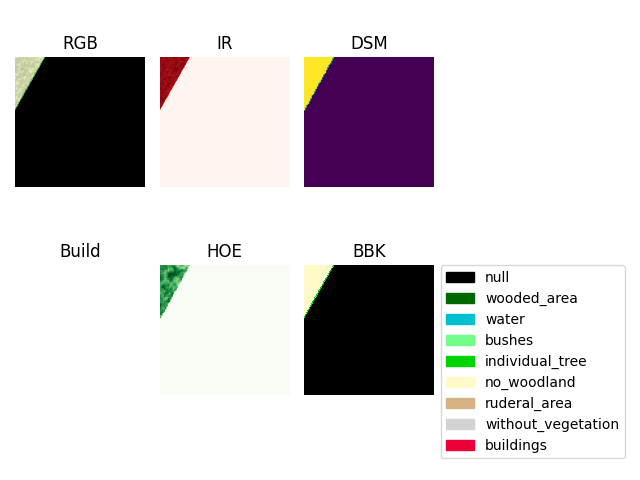
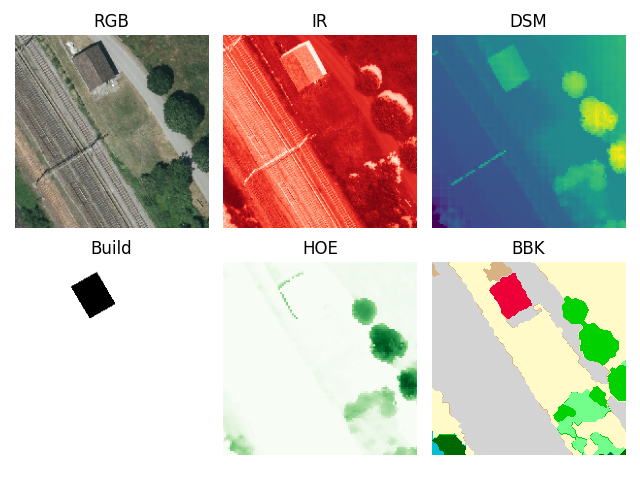
example_data

diff --git a/example_data.py b/example_data.py
@@ -6,7 +6,7 @@ import matplotlib.colors as colors
 import matplotlib.patches as mpatches
 import numpy as np
 
-bbkd = BBKDataset(zone = ("genf",),split="test", augment=False)
+bbkd = BBKDataset(zone = ("alles",),split="all", augment=False)
 print(len(bbkd))
 dl = DataLoader(bbkd, batch_size=16, shuffle=False)
 
@@ -20,6 +20,7 @@ num = 1
 # hex : '#000000', '#006800','#00c0d2', '#73fe8c', '#00d200', '#fffac7', '#d7b384', '#d4d3d4', '#ed0038'
 bbk_cmap = colors.ListedColormap(['#000000', '#006800','#00c0d2', '#73fe8c', '#00d200', '#fffac7', '#d7b384', '#d4d3d4', '#ed0038'])
 bbk_scale = [0,1,2,3,4,5,6,7,8,9]
+bbk_scale = [-0.5,0.5,1.5,2.5,3.5,4.5,5.5,6.5,7.5,8.5]
 labels = ["null","wooded_area", "water", "bushes", "individual_tree", "no_woodland", "ruderal_area", "without_vegetation", "buildings"]
 hex_colors = ['#000000', '#006800','#00c0d2', '#73fe8c', '#00d200', '#fffac7', '#d7b384', '#d4d3d4', '#ed0038']
 
@@ -28,60 +29,124 @@ patches = [ mpatches.Patch(color=hex_colors[i], label=labels[i]) for i in range(
 # put those patched as legend-handles into the legend
 #plt.legend(handles=patches, bbox_to_anchor=(1.05, 1), loc=2, borderaxespad=0. )
 
+plt.figure()
+#plt.legend(handles=patches, bbox_to_anchor=(1.05, 1), loc=2, borderaxespad=0. )
+plt.legend(handles=patches, loc='center', ncol = 1, markerscale=2, fontsize='xx-large')
+#fig.legend(handles=patches, loc=4, borderaxespad=0.)
+plt.axis('off')
+#plt.title('BBK legend')
+plt.savefig(f'example_data/bbk_legend.png')
+
+# counter = 0
+# for i in dl:
+# 	counter += 1
+# 	document = i[0][num]
+# 	rgbidsm = document[:5,:,:]*bbkd.std_vals_tiles+bbkd.mean_vals_tiles
+# 	rgb = rgbidsm[:3,:,:].div(torch.max(rgbidsm[:3,:,:])).permute(1,2,0).numpy()
+# 	#rgb = rgbidsm[:3,:,:].permute(1,2,0).numpy()
+# 	# ir = rgbidsm[3,:,:].div(torch.max(rgbidsm[3,:,:])).numpy()
+# 	ir = rgbidsm[3,:,:].numpy()
+# 	# dsm = rgbidsm[4,:,:].div(torch.max(rgbidsm[4,:,:])).numpy()
+# 	dsm = rgbidsm[4,:,:].numpy()
+# 	build = document[5,:,:].numpy()
+# 	hoe = document[6,:,:]*bbkd.std_vals_vegetation+bbkd.mean_vals_vegetation
+# 	# hoe = hoe.div(torch.max(hoe)).numpy()
+# 	hoe = hoe.numpy()
+# 	bbk = i[1][num].argmax(dim=0).numpy()
+
+# 	# print(np.shape(rgb))
+# 	# print(np.shape(ir))
+# 	# print(np.shape(dsm))
+# 	# print(np.shape(build))
+# 	# print(np.shape(hoe))
+# 	# print(np.shape(bbk))
+
+# 	fig = plt.figure()
+# 	plt.subplot(231)
+# 	plt.imshow(rgb)
+# 	# plt.imshow(bbk, cmap=bbk_cmap, norm=colors.BoundaryNorm(bbk_scale, len(bbk_scale)-1), alpha=0.4)
+# 	plt.axis('off')
+# 	plt.title('RGB')
+# 	plt.subplot(232)
+# 	plt.imshow(ir, cmap='Reds', norm=colors.Normalize())
+# 	plt.axis('off')
+# 	plt.title('IR')
+# 	plt.subplot(233)
+# 	plt.imshow(dsm, norm=colors.Normalize())
+# 	plt.axis('off')
+# 	plt.title('DSM')
+# 	plt.subplot(234)
+# 	plt.imshow(build, cmap='Greys')
+# 	plt.axis('off')
+# 	plt.title('Build')
+# 	plt.subplot(235)
+# 	plt.imshow(hoe, cmap='Greens', norm=colors.Normalize())
+# 	plt.axis('off')
+# 	plt.title('HOE')
+# 	plt.subplot(236)
+# 	plt.imshow(bbk, cmap=bbk_cmap, norm=colors.BoundaryNorm(bbk_scale, len(bbk_scale)-1))
+# 	plt.axis('off')
+# 	plt.title('BBK')
+# 	plt.tight_layout()
+# 	plt.savefig(f'example_data/example_data{counter}.png')
 
 counter = 0
 for i in dl:
-	counter += 1
-	document = i[0][num]
-	rgbidsm = document[:5,:,:]*bbkd.std_vals_tiles+bbkd.mean_vals_tiles
-	rgb = rgbidsm[:3,:,:].div(torch.max(rgbidsm[:3,:,:])).permute(1,2,0).numpy()
-	#rgb = rgbidsm[:3,:,:].permute(1,2,0).numpy()
-	# ir = rgbidsm[3,:,:].div(torch.max(rgbidsm[3,:,:])).numpy()
-	ir = rgbidsm[3,:,:].numpy()
-	# dsm = rgbidsm[4,:,:].div(torch.max(rgbidsm[4,:,:])).numpy()
-	dsm = rgbidsm[4,:,:].numpy()
-	build = document[5,:,:].numpy()
-	hoe = document[6,:,:]*bbkd.std_vals_vegetation+bbkd.mean_vals_vegetation
-	# hoe = hoe.div(torch.max(hoe)).numpy()
-	hoe = hoe.numpy()
-	bbk = i[1][num].argmax(dim=0).numpy()
+	for j in range(len(i[0])):
+		bbk = i[1][j].argmax(dim=0)
+		if torch.unique(bbk[bbk!=0], return_counts=False).size(0) >= 8:
+			print(torch.unique(bbk[bbk!=0], return_counts=False).size())
+			bbk = bbk.numpy()
+			counter += 1
+			document = i[0][j]
+			rgbidsm = document[:5,:,:]*bbkd.std_vals_tiles+bbkd.mean_vals_tiles
+			rgb = rgbidsm[:3,:,:].div(torch.max(rgbidsm[:3,:,:])).permute(1,2,0).numpy()
+			#rgb = rgbidsm[:3,:,:].permute(1,2,0).numpy()
+			# ir = rgbidsm[3,:,:].div(torch.max(rgbidsm[3,:,:])).numpy()
+			ir = rgbidsm[3,:,:].numpy()
+			# dsm = rgbidsm[4,:,:].div(torch.max(rgbidsm[4,:,:])).numpy()
+			dsm = rgbidsm[4,:,:].numpy()
+			build = document[5,:,:].numpy()
+			hoe = document[6,:,:]*bbkd.std_vals_vegetation+bbkd.mean_vals_vegetation
+			# hoe = hoe.div(torch.max(hoe)).numpy()
+			hoe = hoe.numpy()
 
-	# print(np.shape(rgb))
-	# print(np.shape(ir))
-	# print(np.shape(dsm))
-	# print(np.shape(build))
-	# print(np.shape(hoe))
-	# print(np.shape(bbk))
+			# print(np.shape(rgb))
+			# print(np.shape(ir))
+			# print(np.shape(dsm))
+			# print(np.shape(build))
+			# print(np.shape(hoe))
+			# print(np.shape(bbk))
 
-	plt.figure()
-	plt.subplot(231)
-	plt.imshow(rgb)
-	plt.imshow(bbk, cmap=bbk_cmap, norm=colors.BoundaryNorm(bbk_scale, len(bbk_scale)-1), alpha=0.4)
-	plt.axis('off')
-	plt.title('RGB')
-	plt.subplot(232)
-	plt.imshow(ir, cmap='Reds', norm=colors.Normalize())
-	plt.axis('off')
-	plt.title('IR')
-	plt.subplot(233)
-	plt.imshow(dsm, norm=colors.Normalize())
-	plt.axis('off')
-	plt.title('DSM')
-	plt.subplot(234)
-	plt.imshow(build, cmap='Greys')
-	plt.axis('off')
-	plt.title('Build')
-	plt.subplot(235)
-	plt.imshow(hoe, cmap='Greens', norm=colors.Normalize())
-	plt.axis('off')
-	plt.title('HOE')
-	plt.subplot(236)
-	plt.imshow(bbk, cmap=bbk_cmap, norm=colors.BoundaryNorm(bbk_scale, len(bbk_scale)-1))
-	plt.legend(handles=patches, bbox_to_anchor=(1.05, 1), loc=2, borderaxespad=0. )
-	plt.axis('off')
-	plt.title('BBK')
-	plt.tight_layout()
-	plt.savefig(f'example_data/example_data{counter}.png')
+			fig = plt.figure()
+			plt.subplot(231)
+			plt.imshow(rgb)
+			# plt.imshow(bbk, cmap=bbk_cmap, norm=colors.BoundaryNorm(bbk_scale, len(bbk_scale)-1), alpha=0.4)
+			plt.axis('off')
+			plt.title('RGB')
+			plt.subplot(232)
+			plt.imshow(ir, cmap='Reds', norm=colors.Normalize())
+			plt.axis('off')
+			plt.title('IR')
+			plt.subplot(233)
+			plt.imshow(dsm, norm=colors.Normalize())
+			plt.axis('off')
+			plt.title('DSM')
+			plt.subplot(234)
+			plt.imshow(build, cmap='Greys')
+			plt.axis('off')
+			plt.title('Build')
+			plt.subplot(235)
+			plt.imshow(hoe, cmap='Greens', norm=colors.Normalize())
+			plt.axis('off')
+			plt.title('HOE')
+			plt.subplot(236)
+			plt.imshow(bbk, cmap=bbk_cmap, norm=colors.BoundaryNorm(bbk_scale, len(bbk_scale)-1))
+			plt.axis('off')
+			plt.title('BBK')
+			plt.tight_layout()
+			plt.savefig(f'example_data/example_data{counter}.png')
+print(f'number of resulting images : {counter}')
 
 
 

diff --git a/gt_histogram.py b/gt_histogram.py
@@ -4,7 +4,7 @@ from torch.utils.data import DataLoader
 import matplotlib.pyplot as plt
 from tqdm import tqdm
 
-bbkd = BBKDataset(zone = ("alles",),split="all", augment=True)
+bbkd = BBKDataset(zone = ("genf",),split="all", augment=True)
 dl = DataLoader(bbkd, batch_size=64, shuffle=True)
 counts_cumulated = torch.tensor([0,0,0,0,0,0,0,0,0])
 for x in tqdm(dl):
@@ -13,7 +13,11 @@ for x in tqdm(dl):
         counts_cumulated[output[i]] += counts[i]
 counts_cumulated = counts_cumulated.div(counts_cumulated.sum())
 print(counts_cumulated)
-plt.bar(height=counts_cumulated.numpy(), x = bbkd.BBK_CLASSES_list)
-plt.xticks(rotation=45)
+plt.bar(height=counts_cumulated.numpy()*100, x = bbkd.BBK_CLASSES_list)
+plt.xticks(rotation=90)
+plt.xlabel('Classe')
+plt.ylabel('Pourcentage')
+plt.grid(visible=True)
 plt.tight_layout()
+plt.savefig('example_data/classes_histogram.png')
 plt.show()
